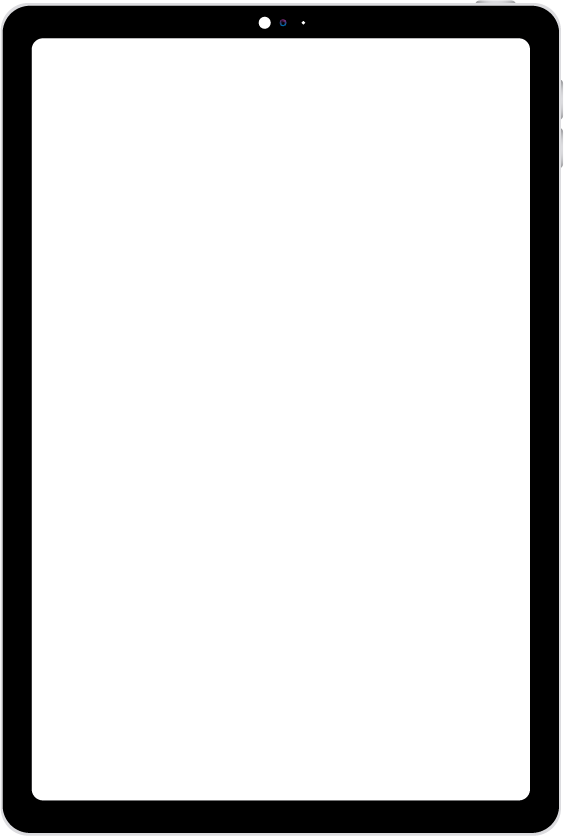
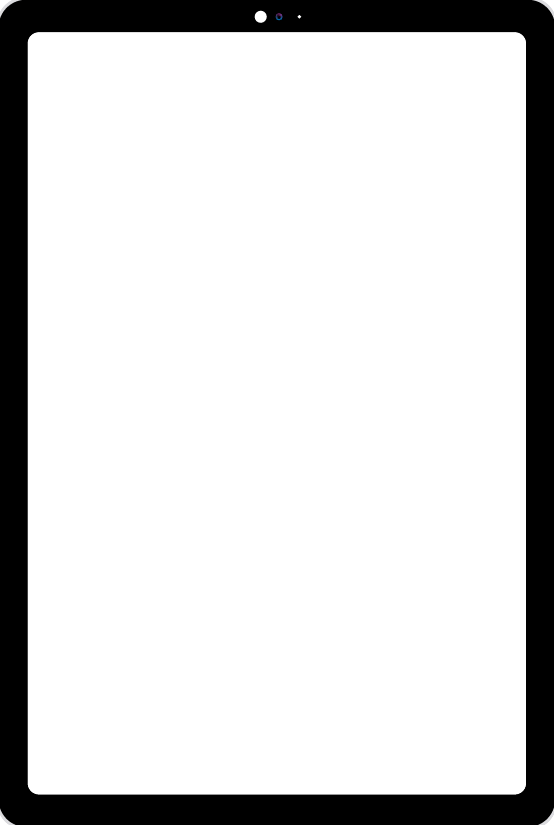
update

Changed region(s): [[0.0, 0.0, 1.0, 1.0]]

diff --git a/src/pages/cameraPage/CameraPage.jsx b/src/pages/cameraPage/CameraPage.jsx
@@ -28,12 +28,12 @@ export default function CameraPage({ capturedImg, setCapturedImg }) {
   const navigate = useNavigate();
   const [isCaptured, setIsCaptured] = useState(false);
   const [postion, setPosition] = useState({
-    top: 1,
-    left: -1.5,
+    top: 8,
+    left: 0,
   });
   const [isCounting, setIsCounting] = useState(false);
   const [counting, setCounting] = useState(5);
-  const [size, setSize] = useState(20);
+  const [size, setSize] = useState(16);
   const [isOpenEditor, setIsOpenEditor] = useState(false);
 
   console.log(postion);
@@ -118,13 +118,13 @@ export default function CameraPage({ capturedImg, setCapturedImg }) {
       }, 1000);
     } else if (isCounting && counting === 0) {
       // Capture the screenshot when countdown hits 0
+      setIsCounting(false); // Stop counting
       setIsCaptured(true);
 
       getScreenshot(screenshotRef.current, (base64Data) => {
         console.log(base64Data);
         setCapturedImg(base64Data);
       });
-      setIsCounting(false); // Stop counting
     }
 
     return () => clearInterval(countdownInterval); // Cleanup interval on unmount or re-run
@@ -280,9 +280,9 @@ export default function CameraPage({ capturedImg, setCapturedImg }) {
               )}
 
               {/* frame */}
-              {/*     <div className="frameContainer flex-row-center">
-              <img src={frame} alt="frame" />
-            </div> */}
+              <div className="frameContainer flex-row-center">
+                <img src={frame} alt="frame" />
+              </div>
             </div>
           </div>
         </div>

diff --git a/src/pages/cameraPage/cameraPage.scss b/src/pages/cameraPage/cameraPage.scss
@@ -53,7 +53,7 @@ $color-one: #212121;
           height: 40vh;
           /*  outline: 2.5vw solid $color-one;
           outline-offset: -2.5vw; */
-          border: 2.5vw solid $color-one;
+          // border: 2.5vw solid $color-one;
           border-radius: 2vw;
           overflow: hidden;
           .webcamWithModel {
@@ -87,6 +87,9 @@ $color-one: #212121;
             inset: 0;
             width: 100.2%;
             height: 100%;
+          }
+          .frameContainer {
+            pointer-events: none;
           }
           .capturedImgContainer {
             background-color: $color-one;

diff --git a/src/utils/getScreenshot.js b/src/utils/getScreenshot.js
@@ -15,10 +15,12 @@ const getScreenshot = (element, callback) => {
   // flip the image
   // element.style.transform = "scaleX(-1)";
 
-  html2canvas(element, { useCORS: true,scale:window.devicePixelRatio }).then((canvas) => {
-    const base64Image = canvas.toDataURL("image/png");
-    callback(base64Image);
-  });
+  html2canvas(element, { useCORS: true, scale: window.devicePixelRatio }).then(
+    (canvas) => {
+      const base64Image = canvas.toDataURL("image/png");
+      callback(base64Image);
+    }
+  );
 };
 
 export default getScreenshot;
